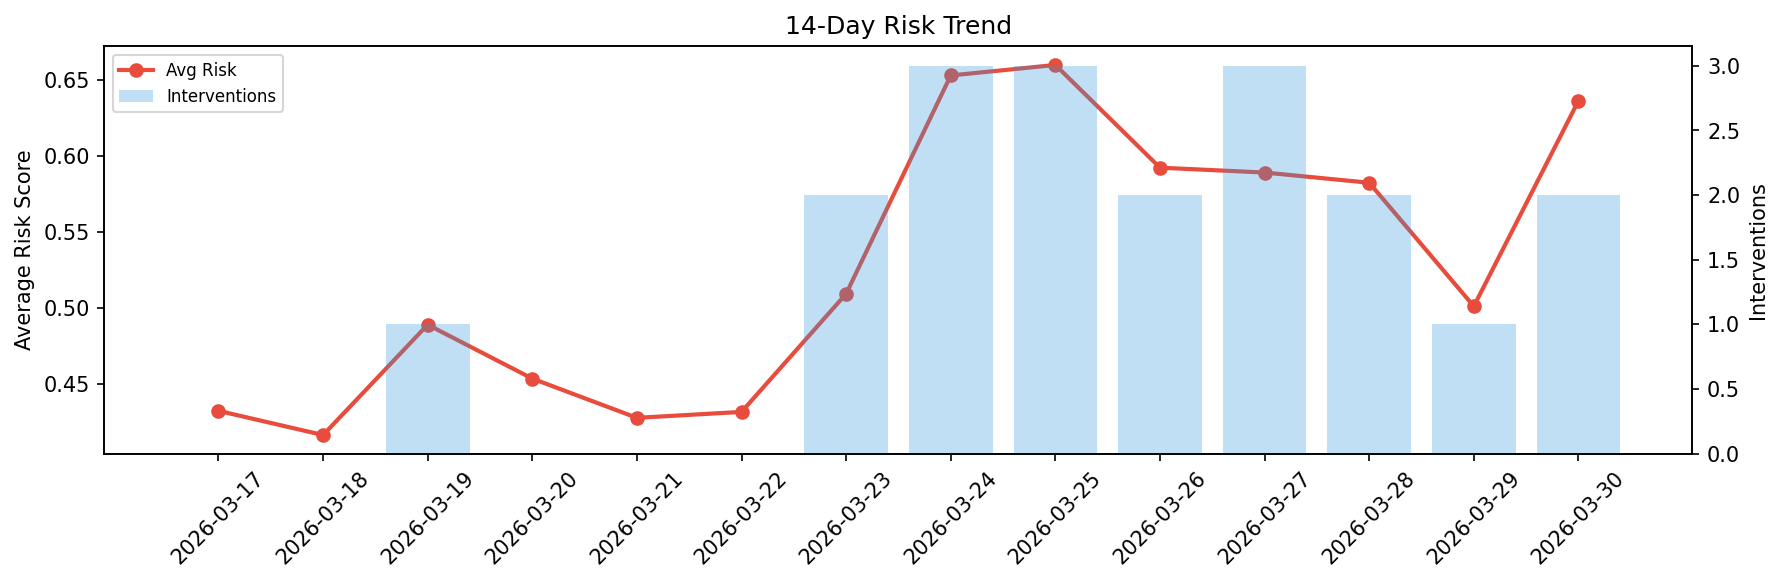
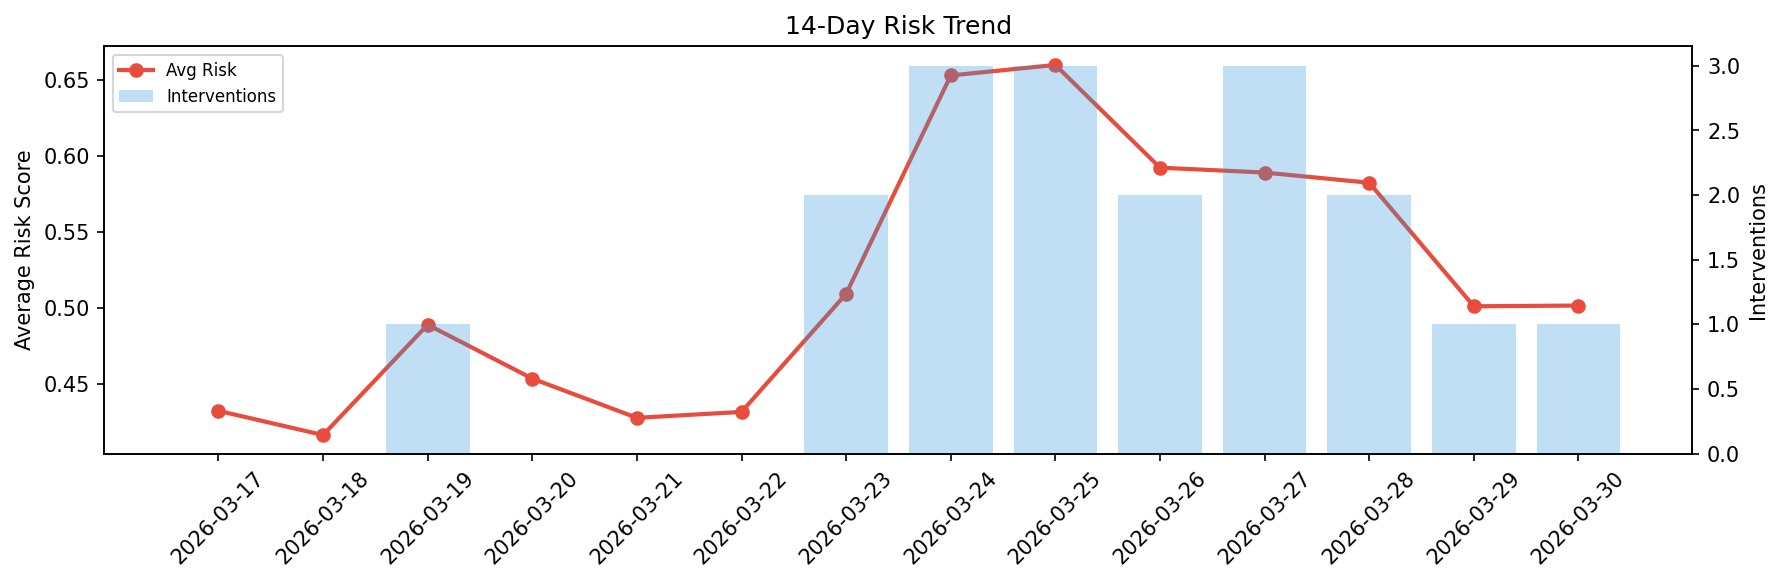
agent-improvement: daily cycle 2026-03-30T15:41

Changed region(s): [[0.8329, 0.3087, 0.9254, 0.5557], [0.8637, 0.1544, 0.8946, 0.2161]]

diff --git a/logs/2026-03-30.md b/logs/2026-03-30.md
@@ -1,6 +1,6 @@
 # Agent Improvement Report — 2026-03-30
 
-**Cycle ID:** `d015a7aa` | **Avg Risk:** 0.636 | **Interventions:** 2/4
+**Cycle ID:** `ad5abda3` | **Avg Risk:** 0.5015 | **Interventions:** 1/4
 
 ![Dashboard](2026-03-30_dashboard.png)
 
@@ -10,18 +10,18 @@
 
 | Domain | Risk Score | Decision | Alerts |
 |--------|-----------|----------|--------|
-| code_review | 0.7755 | intervene | duplication, coverage |
-| incident_response | 0.5258 | monitor | mttr |
-| data_pipeline | 0.5313 | monitor | freshness, volume_anomaly |
-| deployment | 0.7113 | intervene | latency_p99 |
+| code_review | 0.4714 | monitor | none |
+| incident_response | 0.548 | monitor | none |
+| data_pipeline | 0.3161 | monitor | none |
+| deployment | 0.6705 | intervene | rollback_rate |
 
 ## Delta vs Yesterday
 
 | Domain | Today | Yesterday | Change |
 |--------|-------|-----------|--------|
-| code_review | 0.7755 | 0.4373 | 📈 77.3% |
-| incident_response | 0.5258 | 0.3568 | 📈 47.4% |
-| data_pipeline | 0.5313 | 0.8162 | 📉 -34.9% |
-| deployment | 0.7113 | 0.3935 | 📈 80.8% |
+| code_review | 0.4714 | 0.4373 | 📈 7.8% |
+| incident_response | 0.548 | 0.3568 | 📈 53.6% |
+| data_pipeline | 0.3161 | 0.8162 | 📉 -61.3% |
+| deployment | 0.6705 | 0.3935 | 📈 70.4% |
 
-**Refinement:** `{'adjustment': 'maintain', 'trend': 'improving', 'window': 4}`
+**Refinement:** `{'adjustment': 'tighten_thresholds', 'trend': 'degrading', 'window': 4}`
